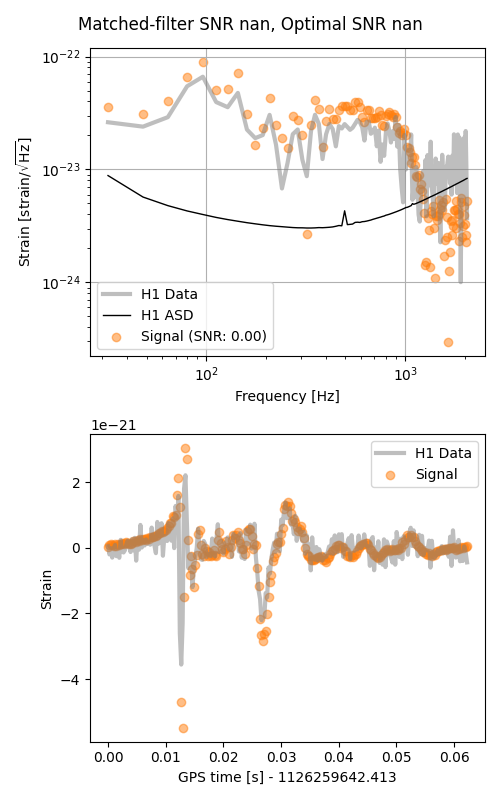
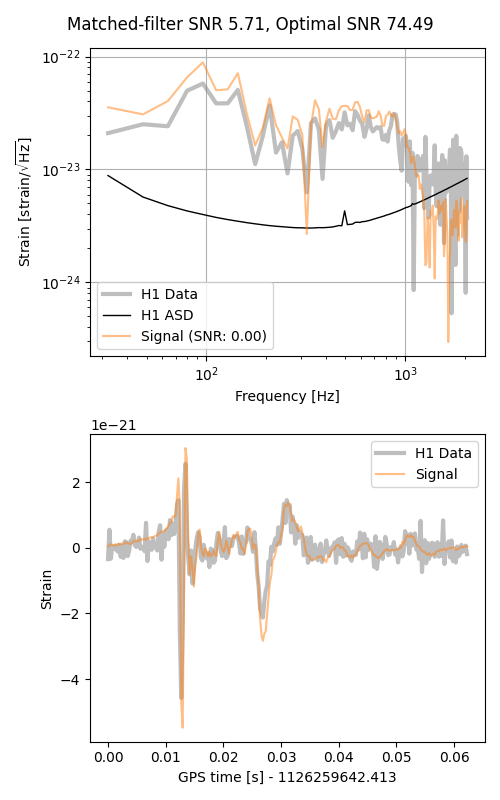
add snr plot

diff --git a/docs/examples/tmp.py b/docs/examples/tmp.py
@@ -1,24 +1,157 @@
+import bilby
 import numpy as np
+from starccato import generate_signals
+import warnings
+
+warnings.filterwarnings("ignore", "Wswiglal-redir-stdio")
+
+# Set the duration and sampling frequency of the data segment that we're going
+# to inject the signal into.
+# These are fixed by the resolution in the injection file that we are using.
+
+sampling_frequency = 4096
+n_timestamps = 256
+duration = n_timestamps / sampling_frequency
+time = np.linspace(0, duration, n_timestamps)
+t0 = time[53]  # This is the time of the core-bounce
+
+# Specify the output directory and the name of the simulation.
+outdir = "outdir"
+label = "supernova"
+bilby.core.utils.setup_logger(outdir=outdir, label=label)
+
+# Set up a random seed for result reproducibility.  This is optional!
+np.random.seed(0)
+
+# We are going to inject a supernova waveform.  We first establish a dictionary
+# of parameters that includes all of the different waveform parameters. It will
+# read in a signal to inject from a txt file.
+
+injection_parameters = dict(
+    luminosity_distance=10,  # kpc
+    geocent_time=1126259642.413,
+    ra=0,
+    dec=0,
+    psi=0
+)
+
+
+def supernova(time_array, luminosity_distance, **kwargs):
+    """
+    A source model that reads a simulation from a text file.
+
+    This was originally intended for use with supernova simulations, but can
+    be applied to any source class.
+
+    Parameters
+    ----------
+    frequency_array: array-like
+        Unused (but required by the source model interface)
+    file_path: str
+        Path to the file containing the NR simulation. The format of this file
+        should be readable by :code:`numpy.loadtxt` and have four columns
+        containing the real and imaginary components of the plus and cross
+        polarizations.
+    luminosity_distance: float
+        The distance to the source in kpc, this scales the amplitude of the
+        signal. The simulation is assumed to be at 10kpc.
+    kwargs:
+        extra keyword arguments, this should include the :code:`file_path`
+
+    Returns
+    -------
+    dict:
+        A dictionary containing the plus and cross components of the signal.
+    """
+
+    waveform = generate_signals(n=1, **kwargs)[0]
+
+    # waveforms generated at 10kpc, so scale to the luminosity distance
+    scaling = 1e-20 * (10.0 / luminosity_distance)
+
+    # idk if the signal is hcross/hplus, so we just duplicate for now... #TODO
+    h_plus = scaling * waveform
+    return {'plus': h_plus, 'cross': h_plus}
+
+
+# Create the waveform_generator using a supernova source function
+waveform_generator = bilby.gw.waveform_generator.WaveformGenerator(
+    duration=duration,
+    sampling_frequency=sampling_frequency,
+    time_domain_source_model=supernova,
+    parameters=injection_parameters,
+    parameter_conversion=lambda parameters: (parameters, list()),
+    waveform_arguments=dict(seed=0),
+)
+
+# Set up interferometers (LIGO-Hanford (H1) and LIGO-Livingston (L1))
+ifos = bilby.gw.detector.InterferometerList(["H1", "L1"])
+ifos.set_strain_data_from_power_spectral_densities(
+    sampling_frequency=sampling_frequency,
+    duration=duration,
+    start_time=injection_parameters["geocent_time"],
+
+)
+
+injection_strain_time = waveform_generator.time_domain_strain(injection_parameters)
+injection_strain = waveform_generator.frequency_domain_strain(injection_parameters)
+
+ifos.inject_signal(
+    injection_polarizations=injection_strain,
+    parameters=injection_parameters,
+    raise_error=False,
+)
+
+
+from bilby.gw import utils as gwutils
 import matplotlib.pyplot as plt
 
-# Constants for the models
-f_0_ligo = 215  # Reference frequency for LIGO (Hz)
-f_0_virgo = 500  # Reference frequency for Virgo (Hz)
-f_0_kagra = 500  # Reference frequency for KAGRA (Hz)
 
-# LIGO (Advanced LIGO design sensitivity) PSD
-def ligo_psd(f):
-    x = f / f_0_ligo
-    S_0 = 1e-49  # Normalization constant in Hz^(-1)
-    return S_0 * (x**(-4.14) - 5 * x**(-2) + 111 * ((1 - x**2 + (x**4) / 2) / (1 + (x**2) / 2)))
+DATA_COL = 'tab:gray'
+SIGNAL_COL = 'tab:orange'
+PSD_COL = 'black'
+
+def plot_freq_domain(ifo: bilby.gw.detector.Interferometer, freq_signal):
+    fig, ax = plt.subplots()
+    df = ifo.strain_data.frequency_array[1] - ifo.strain_data.frequency_array[0]
+    asd = gwutils.asd_from_freq_series(
+        freq_data=ifo.strain_data.frequency_domain_strain, df=df)
+
+    ax.loglog(ifo.strain_data.frequency_array[ifo.strain_data.frequency_mask],
+              asd[ifo.strain_data.frequency_mask],
+              color=DATA_COL, label=f"{ifo.name} Data", alpha=0.5, lw=3)
+    ax.loglog(ifo.strain_data.frequency_array[ifo.strain_data.frequency_mask],
+              ifo.amplitude_spectral_density_array[ifo.strain_data.frequency_mask],
+              color=PSD_COL, lw=1.0, label=ifo.name + ' ASD')
+
+    signal_asd = gwutils.asd_from_freq_series(
+        freq_data=freq_signal, df=df)
+
+    ax.loglog(ifo.strain_data.frequency_array[ifo.strain_data.frequency_mask],
+              signal_asd[ifo.strain_data.frequency_mask],
+              color=SIGNAL_COL,
+              label=f'Signal (SNR: {ifo.meta_data["optimal_SNR"]:.2f})')
+    ax.grid(True)
+    ax.set_ylabel(r'Strain [strain/$\sqrt{\rm Hz}$]')
+    ax.set_xlabel(r'Frequency [Hz]')
+    ax.legend(loc='best')
 
 
-# Frequency range for plotting the PSD
-frequencies = np.logspace(1, 4, 1000)  # Frequency range from 10 Hz to 10 kHz
+def plot_time_domain(ifo, time_signal):
+    fig, ax = plt.subplots()
+    strain = ifo.strain_data.time_domain_strain
+    t0 = ifo.strain_data.start_time
+    x = ifo.strain_data.time_array - t0
+    xlabel = f'GPS time [s] - {t0}'
+    # unroll raw data
+    strain = np.roll(strain, 55)
+    ax.plot(x, strain, color=DATA_COL, label=f"{ifo.name} Data", alpha=0.5, lw=3)
+    ax.plot(x, time_signal, color=SIGNAL_COL, label=f'Signal (SNR: {ifo.meta_data["optimal_SNR"]:.2f})')
+    ax.set_xlabel(xlabel)
+    ax.set_ylabel('Strain')
+    ax.legend()
+    fig.tight_layout()
 
-# Compute the PSD for each detector
-psd_ligo = ligo_psd(frequencies)
-# Plot the PSDs
-plt.figure(figsize=(10, 6))
-plt.loglog(frequencies, psd_ligo, label="LIGO (Design Sensitivity)")
-plt.show()
+
+plot_freq_domain(ifos[0], injection_strain['plus'])
+plt.savefig('tmp.png')

diff --git a/docs/examples/search_example.py b/docs/examples/search_example.py
@@ -81,7 +81,7 @@ def plot_freq_domain(ifo: bilby.gw.detector.Interferometer, freq_signal, ax=None
     signal_asd = gwutils.asd_from_freq_series(
         freq_data=freq_signal, df=df)
 
-    ax.scatter(ifo.strain_data.frequency_array[ifo.strain_data.frequency_mask],
+    ax.loglog(ifo.strain_data.frequency_array[ifo.strain_data.frequency_mask],
               signal_asd[ifo.strain_data.frequency_mask],
               color=SIGNAL_COL,
               label=f'Signal (SNR: {ifo.meta_data["optimal_SNR"]:.2f})', alpha=0.5)
@@ -101,7 +101,7 @@ def plot_time_domain(ifo, time_signal, ax=None):
     # unroll raw data
     strain = np.roll(strain, 55)
     ax.plot(x, strain, color=DATA_COL, label=f"{ifo.name} Data", alpha=0.5, lw=3)
-    ax.scatter(x, time_signal, color=SIGNAL_COL, label=f'Signal', alpha=0.5)
+    ax.plot(x, time_signal, color=SIGNAL_COL, label=f'Signal', alpha=0.5)
     ax.set_xlabel(xlabel)
     ax.set_ylabel('Strain')
     ax.legend()
@@ -114,7 +114,6 @@ def inner_product(aa, bb, frequency, PSD):
     return 4. * np.real(integral)
 
 
-
 def compute_snr(signal, data, freq, psd, fmask):
     """
 
@@ -125,11 +124,9 @@ def compute_snr(signal, data, freq, psd, fmask):
     h = signal.astype(np.complex128)[fmask]
     dh = inner_product(d, h, freq[fmask], psd[fmask])
     hh = inner_product(h, h, freq[fmask], psd[fmask])
-
     o_snr = np.sqrt(hh)
     mf_snr = dh / o_snr
-
-    return o_snr, mf_snr
+    return mf_snr, o_snr
 
 
 sampling_frequency = 4096
@@ -183,11 +180,11 @@ ifos.inject_signal(
 )
 
 snrs = compute_snr(
-    injection_strain['plus'],
-    ifos[0].frequency_domain_strain,
-    ifos[0].power_spectral_density_array,
-    ifos[0].frequency_array,
-    ifos[0].strain_data.frequency_mask
+    signal=injection_strain['plus'],
+    data=ifos[0].frequency_domain_strain,
+    psd=ifos[0].power_spectral_density_array,
+    freq=ifos[0].frequency_array,
+    fmask=ifos[0].strain_data.frequency_mask
 )
 
 fig, axes = plt.subplots(2, 1, figsize=(5, 8))
